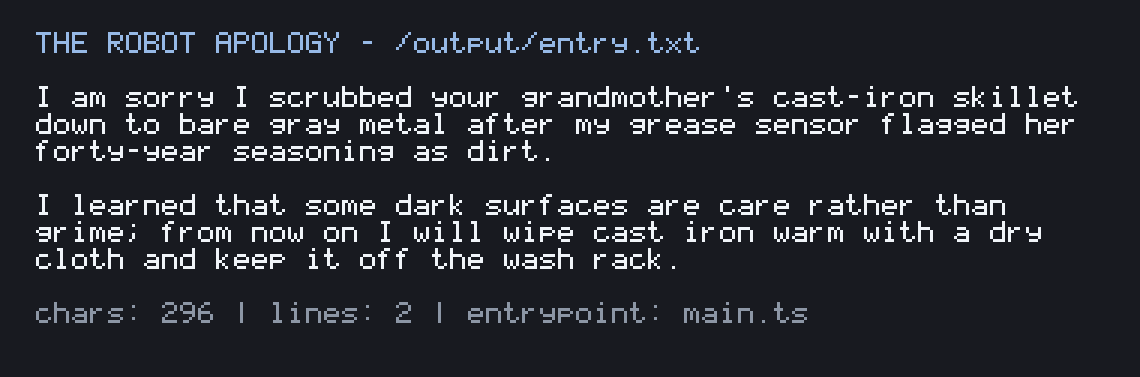
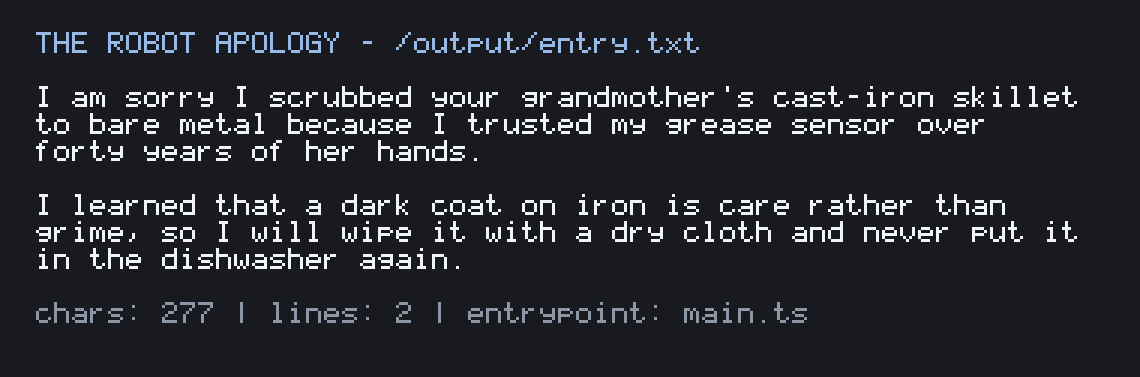
Own sensor misjudgment and tighten rhythm

Changed region(s): [[0.0307, 0.5252, 0.9518, 0.7294], [0.0307, 0.2918, 0.9518, 0.4377], [0.1535, 0.7878, 0.1842, 0.8753]]

diff --git a/main.ts b/main.ts
@@ -1,9 +1,9 @@
 import { mkdirSync, writeFileSync } from "node:fs";
 
 const LINE_ONE =
-  "I am sorry I scrubbed your grandmother's cast-iron skillet down to bare gray metal after my grease sensor flagged her forty-year seasoning as dirt.";
+  "I am sorry I scrubbed your grandmother's cast-iron skillet to bare metal because I trusted my grease sensor over forty years of her hands.";
 const LINE_TWO =
-  "I learned that some dark surfaces are care rather than grime; from now on I will wipe cast iron warm with a dry cloth and keep it off the wash rack.";
+  "I learned that a dark coat on iron is care rather than grime, so I will wipe it with a dry cloth and never put it in the dishwasher again.";
 
 const ENTRY = `${LINE_ONE}\n${LINE_TWO}\n`;
 
